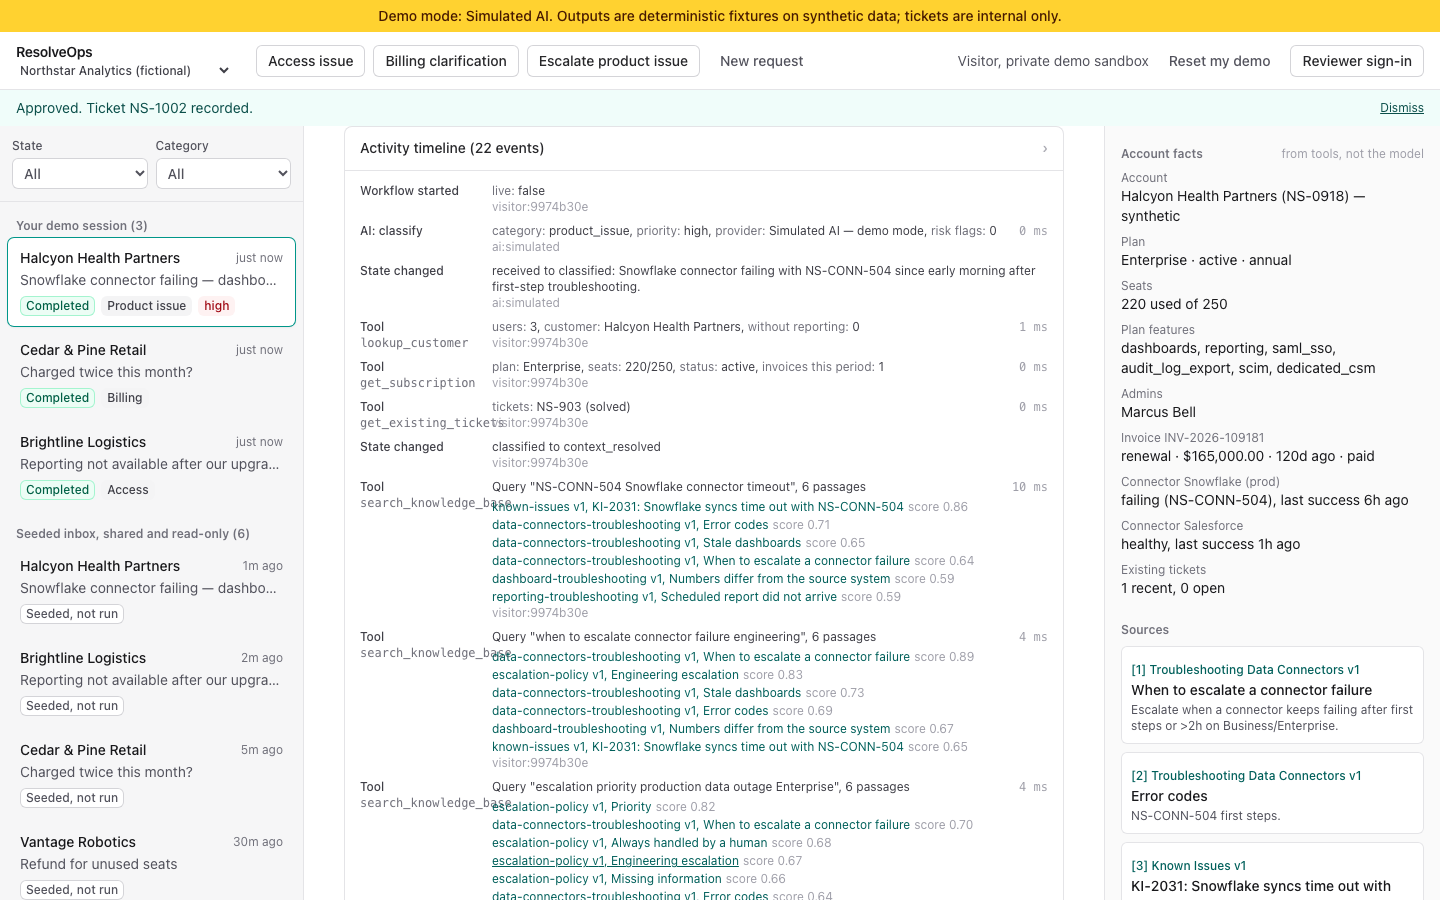
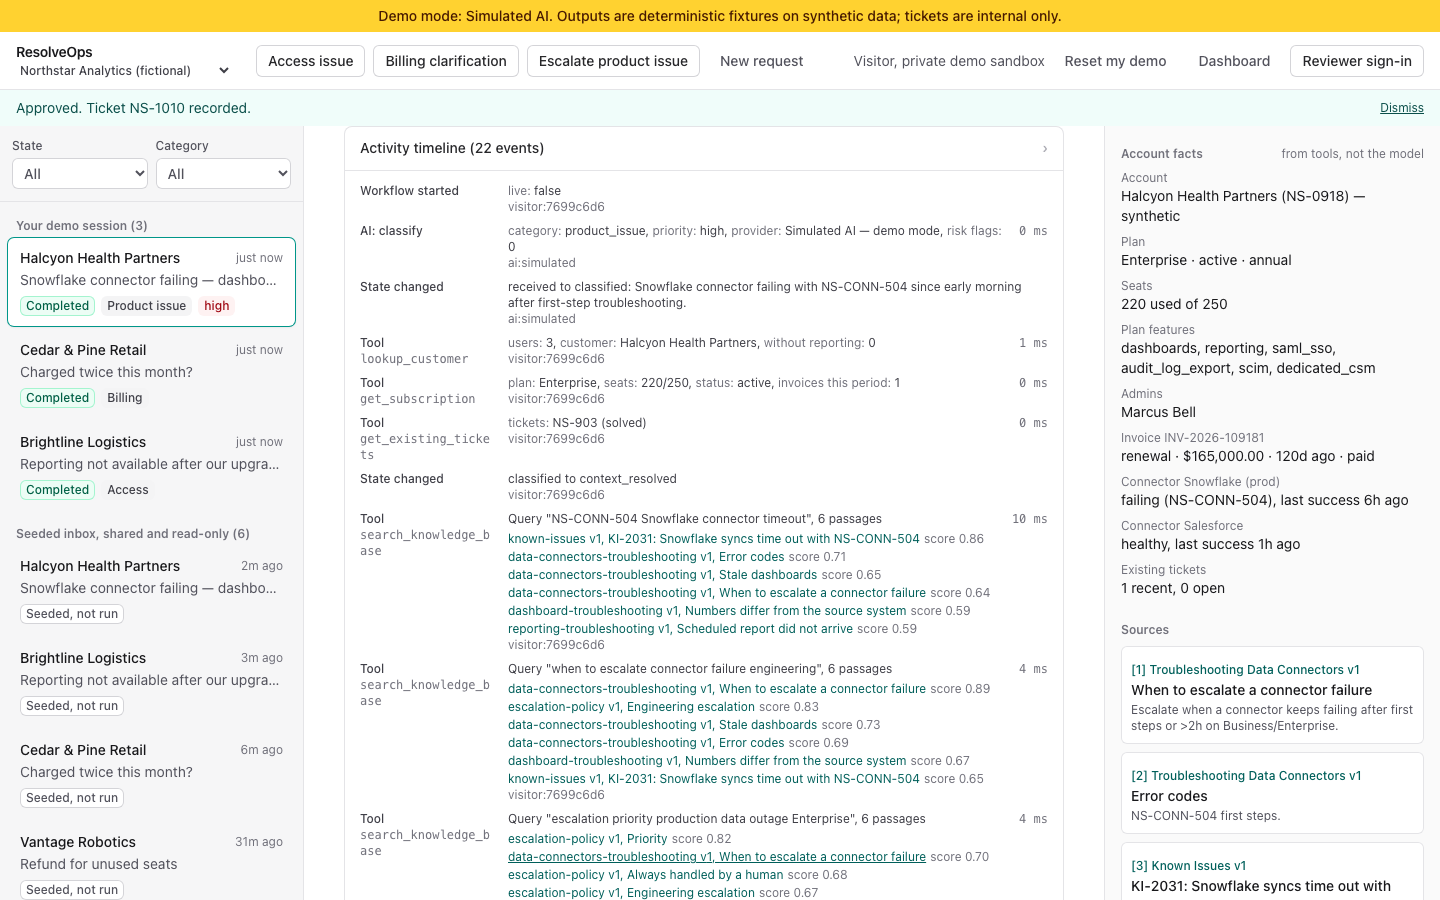
UI polish: timeline tool names no longer overlap results, muted text meets contrast, summary focus ring, header wraps at 390px; M5 browser checks (dashboard, widths, a11y basics)

diff --git a/frontend/src/components/Timeline.tsx b/frontend/src/components/Timeline.tsx
@@ -26,7 +26,7 @@ function Summary({ e, onCite }: { e: TimelineEvent; onCite: (id: string) => void
               <button className="text-left text-teal-800 hover:underline" onClick={() => onCite(p.chunk_id)}>
                 {p.doc} v{p.version}, {p.section}
               </button>
-              <span className="ml-1 text-zinc-400">score {p.score.toFixed(2)}</span>
+              <span className="ml-1 text-zinc-500">score {p.score.toFixed(2)}</span>
             </li>
           ))}
         </ul>
@@ -55,17 +55,17 @@ export function Timeline({ events, onCite }: { events: TimelineEvent[]; onCite: 
       </summary>
       <ol className="space-y-2 border-t border-zinc-200 px-4 py-3">
         {events.map((e) => (
-          <li key={e.id} className="grid grid-cols-[7.5rem_1fr_auto] gap-3 text-xs">
-            <span className={`font-medium ${e.error ? "text-red-700" : "text-zinc-700"}`}>
+          <li key={e.id} className="grid grid-cols-[8.5rem_minmax(0,1fr)_auto] gap-3 text-xs">
+            <span className={`min-w-0 font-medium ${e.error ? "text-red-700" : "text-zinc-700"}`}>
               {EVENT_LABEL[e.event] ?? e.event}
-              {e.tool_name && <span className="block font-mono font-normal text-zinc-500">{e.tool_name}</span>}
+              {e.tool_name && <span className="block font-mono font-normal text-zinc-500 [overflow-wrap:anywhere]">{e.tool_name}</span>}
             </span>
             <div className="min-w-0 text-zinc-700">
               <Summary e={e} onCite={onCite} />
               {e.error && <p className="mt-0.5 text-red-700">{e.error}</p>}
-              <p className="text-zinc-400">{e.actor}</p>
+              <p className="text-zinc-500">{e.actor}</p>
             </div>
-            <span className="font-mono text-zinc-400">{e.duration_ms !== null ? `${e.duration_ms} ms` : ""}</span>
+            <span className="font-mono text-zinc-500">{e.duration_ms !== null ? `${e.duration_ms} ms` : ""}</span>
           </li>
         ))}
       </ol>

diff --git a/frontend/src/App.tsx b/frontend/src/App.tsx
@@ -121,7 +121,7 @@ export default function App() {
           ))}
           <Button variant="ghost" onClick={() => setDialog("new")} disabled={!slug}>New request</Button>
         </div>
-        <div className="ml-auto flex items-center gap-2 text-sm">
+        <div className="ml-auto flex flex-wrap items-center gap-2 text-sm">
           <span className="hidden text-zinc-600 sm:inline" data-testid="scope">{isReviewer ? `${meta?.reviewer?.name}, reviewer` : "Visitor, private demo sandbox"}</span>
           {!isReviewer && (
             <Button variant="ghost" disabled={busy} data-testid="reset-demo" onClick={async () => {

diff --git a/frontend/src/components/EvidencePane.tsx b/frontend/src/components/EvidencePane.tsx
@@ -16,7 +16,7 @@ export function EvidencePane({ detail: d, onCite }: { detail: RequestDetail | nu
   return (
     <aside className="min-h-0 space-y-6 overflow-y-auto border-l border-zinc-200 bg-zinc-50 px-4 py-5" data-testid="evidence-pane">
       <section>
-        <PanelHeading aside={<span className="text-xs text-zinc-400">from tools, not the model</span>}>Account facts</PanelHeading>
+        <PanelHeading aside={<span className="text-xs text-zinc-500">from tools, not the model</span>}>Account facts</PanelHeading>
         {c ? (
           <dl className="space-y-2 text-sm">
             {c.account_facts.map((f) => (

diff --git a/frontend/src/components/RequestPane.tsx b/frontend/src/components/RequestPane.tsx
@@ -78,7 +78,7 @@ export function RequestPane(props: {
           <p className="text-sm text-zinc-600">
             {d.from_name} &lt;{d.from_email}&gt; at {d.customer?.company_name}
             {d.customer?.is_synthetic && <span className="ml-1.5"><Tag>Synthetic customer</Tag></span>}
-            <span className="ml-1.5 text-zinc-400">{timeAgo(d.received_at)}</span>
+            <span className="ml-1.5 text-zinc-500">{timeAgo(d.received_at)}</span>
           </p>
         </header>
 

diff --git a/frontend/src/index.css b/frontend/src/index.css
@@ -6,7 +6,7 @@
 }
 
 :root { color-scheme: light; }
-button:focus-visible, a:focus-visible, textarea:focus-visible, select:focus-visible, input:focus-visible {
+button:focus-visible, summary:focus-visible, a:focus-visible, textarea:focus-visible, select:focus-visible, input:focus-visible {
   outline: 2px solid var(--color-teal-600);
   outline-offset: 2px;
 }
